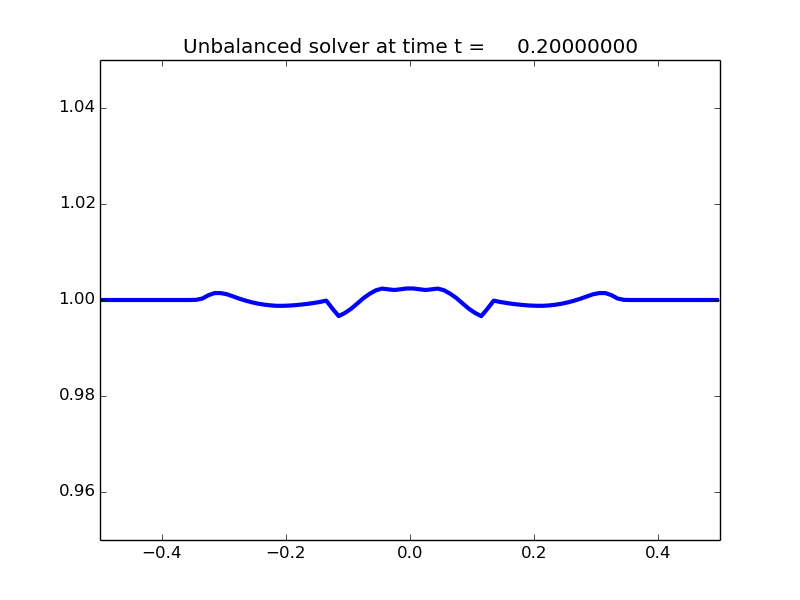
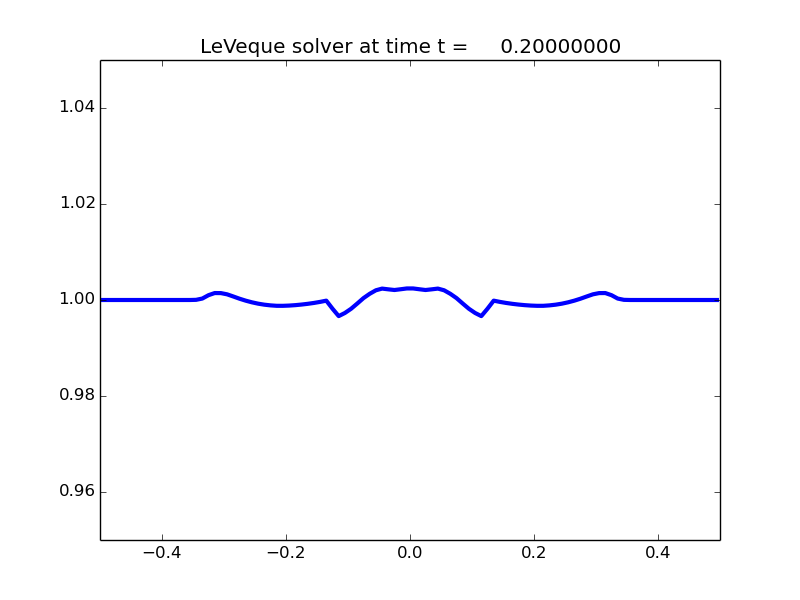
Update leveque results

Changed region(s): [[0.2188, 0.06, 0.5938, 0.09], [0.625, 0.06, 0.8125, 0.09]]

diff --git a/code/1D_SWE/1D_SWE.py b/code/1D_SWE/1D_SWE.py
@@ -495,7 +495,7 @@ def setplot(plotdata):
     plotdata.clearfigures()  # clear any old figures,axes,items data
 
     # Figure for Surface Level and Potential Vorticity
-    plotfigure = plotdata.new_plotfigure(name='Unbalanced solver', figno=0)
+    plotfigure = plotdata.new_plotfigure(name='LeVeque solver', figno=0)
 
     # Set up for axes in this figure:
     plotaxes = plotfigure.new_plotaxes()
@@ -510,7 +510,7 @@ def setplot(plotdata):
     }[Scenario]
     plotaxes.ylimits = [0.0,max_h]
     plotaxes.ylimits = [0.95,1.05]
-    plotaxes.title = 'Unbalanced solver'
+    plotaxes.title = 'LeVeque solver'
     #plotaxes.axescmd = 'subplot(211)'
 
     # Set up for items on these axes:
